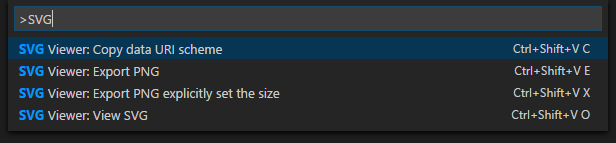
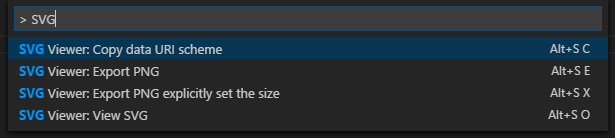
Change Ctrl+Shift+V ? to Alt+S ?.

diff --git a/README-ja.md b/README-ja.md
@@ -14,16 +14,16 @@ SVG Viewer for Visual Studio Code
 
 ![palette](img/palette.png)
 
-### View SVG - `Ctrl(Cmd)+Shift+V O`
+### View SVG - `Alt+S O`
 SVGをエディタ上で表示
 
-### Export PNG - `Ctrl(Cmd)+Shift+V E`
+### Export PNG - `Alt+S E`
 SVGをPNGに変換
 
-### Export PNG with explicitly size - `Ctrl(Cmd)+Shift+V X`
+### Export PNG with explicitly size - `Alt+S X`
 サイズを明示的に指定して、SVGをPNGに変換
 
-### Copy data URI scheme - `Ctrl(Cmd)+Shift+V C`
+### Copy data URI scheme - `Alt+S C`
 SVGをdata URI schemeに変換し、クリップボードにコピー
 
 ![preview](img/preview.png)

diff --git a/README.md b/README.md
@@ -15,16 +15,16 @@ SVG Viewer for Visual Studio Code
 
 ![palette](img/palette.png)
 
-### View SVG - `Ctrl(Cmd)+Shift+V O`
+### View SVG - `Alt+S O`
 Display SVG on an Editor
 
-### Export PNG - `Ctrl(Cmd)+Shift+V E`
+### Export PNG - `Alt+S E`
 Convert from SVG to PNG
 
-### Export PNG with explicitly size - `Ctrl(Cmd)+Shift+V X`
+### Export PNG with explicitly size - `Alt+S X`
 Convert from SVG to PNG with explicitly size
 
-### Copy data URI scheme - `Ctrl(Cmd)+Shift+V C`
+### Copy data URI scheme - `Alt+S C`
 Convert from SVG to data URI scheme and copy to the clipboard
 
 ![preview](img/preview.png)
